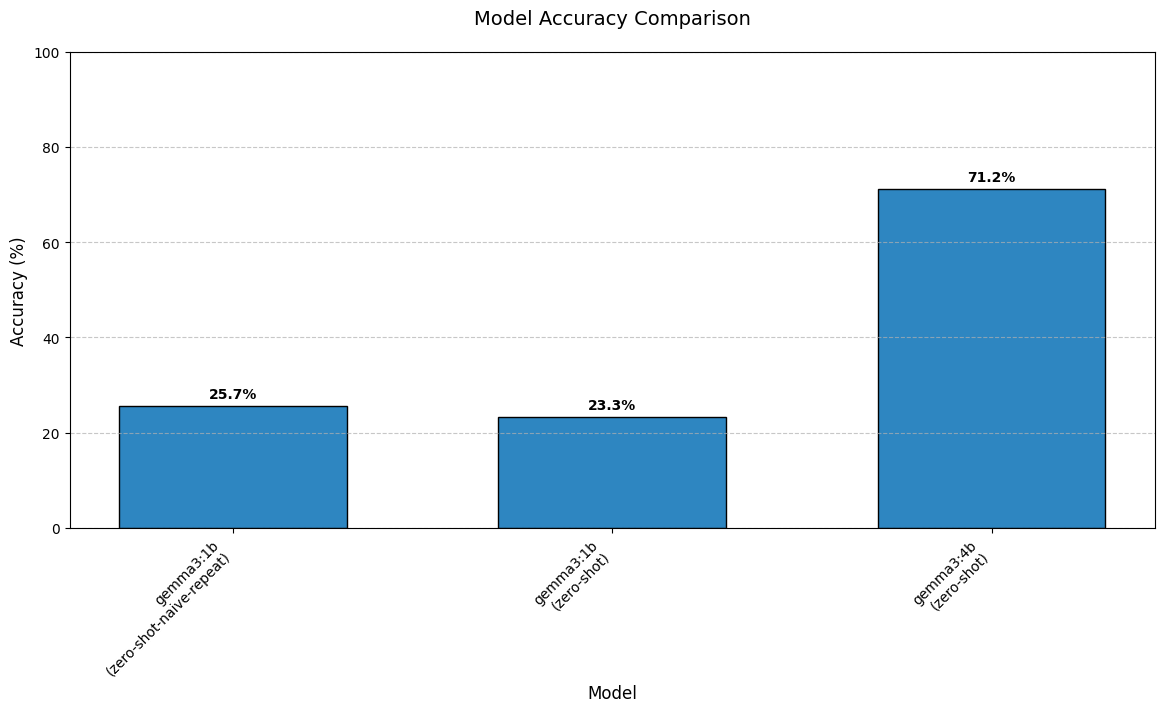
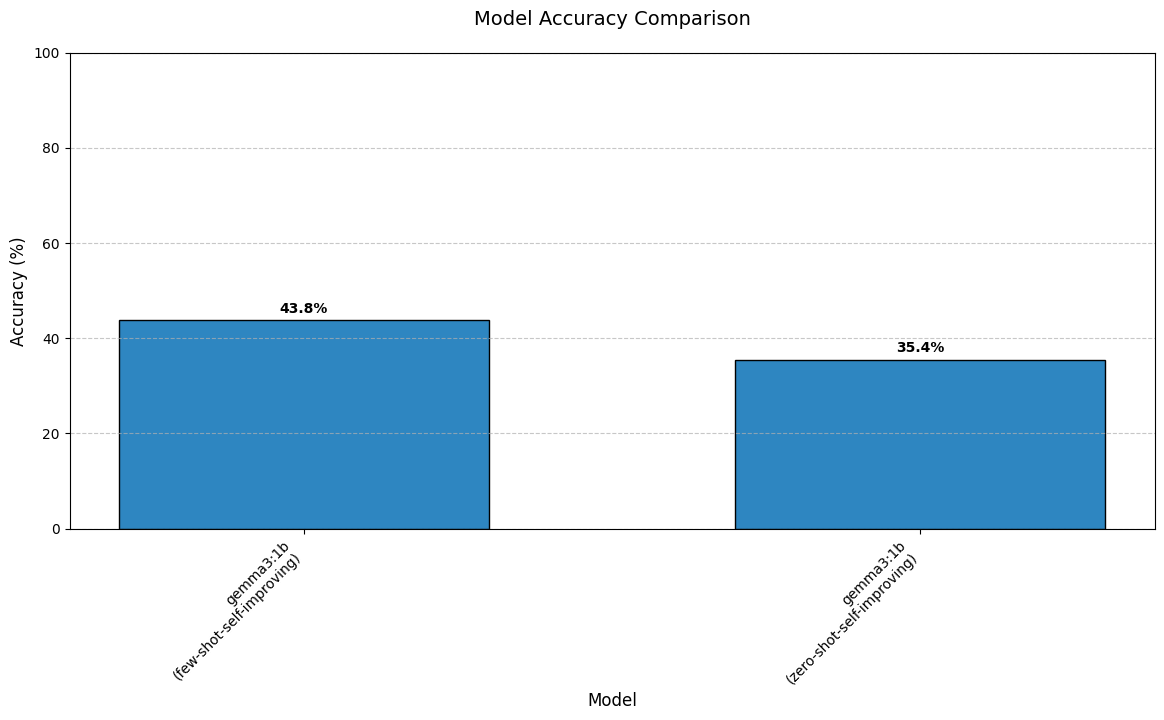
Add self-improving approach.

diff --git a/src/experiment/zero_shot/zero_shot_experiment.py b/src/experiment/zero_shot/zero_shot_experiment.py
@@ -1,30 +1,13 @@
 import datetime
-from typing import Optional, Dict, List
+from typing import Dict, List, Optional
 
-import ollama
-
-
+from src.evaluation.code_evaluator import CodeEvaluator
 from src.experiment.base_experiment import BaseExperiment
 from src.experiment.utils import extract_code
-from src.prompts import SYSTEM_PROMPT
 
 
 class ZeroShotExperiment(BaseExperiment):
     """Implements zero-shot approach for MBPP experiment."""
-
-    def generate_response(self, prompt: str) -> str:
-        """Generate code using the configured model."""
-        try:
-            response = ollama.generate(
-                model=self.config.model_name,
-                prompt=prompt,
-                system=SYSTEM_PROMPT,
-                options={"num_predict": 1000},
-            )
-            return response["response"]
-        except Exception as e:
-            self.logger.error(f"Error generating response: {e}")
-            return ""
 
     def create_task_prompt(self, example: Dict) -> str:
         """Create the prompt from the example data."""
@@ -80,6 +63,82 @@ class ZeroShotWithNaiveRepetitionExperiment(ZeroShotExperiment):
             code_action = extract_code(response)
 
             results.append({"response": response, "code_action": code_action})
+
+        return {
+            **example,
+            "results": results,
+            "model": self.config.model_name,
+            "experiment_name": self.config.experiment_name,
+            "timestamp": str(datetime.datetime.now()),
+        }
+
+
+class ZeroShotWithSelfImprovingRepetitionExperiment(ZeroShotExperiment):
+    """Implements zero-shot with self-improving repetition approach for MBPP experiment."""
+
+    def __init__(self, config):
+        super().__init__(config)
+        self.code_evaluator = CodeEvaluator()
+
+    def process_task(self, task_id: int, data: List[Dict]) -> Optional[Dict]:
+        """Process a single MBPP task using self-improving approach."""
+        example = next((ex for ex in data if ex["task_id"] == task_id), None)
+        if not example:
+            self.logger.warning(f"No example found for task_id {task_id}")
+            return None
+
+        num_iterations = self.config.experiment_additional_arguments.get(
+            "num_iterations", 3
+        )
+
+        self.logger.info(f"Processing task {task_id} with {num_iterations} iterations")
+        results = []
+        previous_attempts = []
+
+        for iteration in range(num_iterations):
+            # Create prompt with previous attempts feedback
+            prompt = self.create_task_prompt(example)
+            if previous_attempts:
+                prompt += "\nPrevious attempts and their results:\n"
+                for i, attempt in enumerate(previous_attempts):
+                    prompt += f"\nAttempt {i + 1}:\n{attempt['code']}\n"
+                    prompt += f"Execution result: {'Success' if attempt['success'] else 'Failed'}\n"
+                    if not attempt["success"]:
+                        prompt += f"Error: {attempt['error']}\n"
+                prompt += "The assertion errors show the test cases where your previous implementation didn't work."
+                prompt += "Based on the provided information, improve your thinking and solve the initally given problem."
+
+            response = self.generate_response(prompt)
+            code_action = extract_code(response)
+
+            # Execute and evaluate the code
+            success, output, logs = self.code_evaluator.evaluate_task(
+                code_action, example["test_list"]
+            )
+
+            previous_attempts.append(
+                {
+                    "code": code_action,
+                    "success": success,
+                    "error": logs if not success else "",
+                }
+            )
+
+            results.append(
+                {
+                    "response": response,
+                    "code_action": code_action,
+                    "execution_success": success,
+                    "test_success": success,
+                    "execution_output": output,
+                    "execution_logs": logs,
+                    "iteration": iteration + 1,
+                }
+            )
+
+            # If the code passes all tests, we can stop iterating
+            if success:
+                break
 
         return {
             **example,

diff --git a/src/experiment/few_shot/few_shot_experiment.py b/src/experiment/few_shot/few_shot_experiment.py
@@ -3,7 +3,9 @@ from typing import Dict
 from src.experiment.zero_shot import (
     ZeroShotExperiment,
     ZeroShotWithNaiveRepetitionExperiment,
+    ZeroShotWithSelfImprovingRepetitionExperiment,
 )
+from src.evaluation.code_evaluator import CodeEvaluator
 
 
 class FewShotExperiment(ZeroShotExperiment):
@@ -11,7 +13,10 @@ class FewShotExperiment(ZeroShotExperiment):
 
     def create_task_prompt(self, example: Dict) -> str:
         """Create the prompt from the example data."""
-        few_shot_prompt = "You are an expert Python programmer and your goal is to solve the programming tasks.\n"
+        few_shot_prompt = """
+        You are an expert Python programmer and your goal is to solve the programming tasks.
+        Examples:
+        """
 
         for task_id in range(
             self.config.FEW_SHOT_RANGE[0], self.config.FEW_SHOT_RANGE[1] + 1
@@ -27,11 +32,15 @@ class FewShotExperiment(ZeroShotExperiment):
             few_shot_prompt += ex["prompt"]
             few_shot_prompt += "\nYour code should satisfy these tests:\n"
             few_shot_prompt += "\n".join(ex["test_list"])
+            few_shot_prompt += "\n"
+            few_shot_prompt += ex["code"]
+            few_shot_prompt += "\n\n"
 
-        few_shot_prompt += "\n"
+        few_shot_prompt += "Now is your turn to solve the next task. Remember to solve only this task.\n\n"
 
         return (
-            example["prompt"]
+            few_shot_prompt
+            + example["prompt"]
             + "\nYour code should satisfy these tests:\n"
             + "\n".join(example["test_list"])
         )
@@ -45,6 +54,24 @@ class FewShotWithNaiveRepetitionExperiment(
     Inherits create_task_prompt from FewShotExperiment and other functionality
     from ZeroShotWithNaiveRepetitionExperiment.
     """
+
+    def create_task_prompt(self, example: Dict) -> str:
+        """Override to ensure FewShotExperiment's version is used."""
+        return FewShotExperiment.create_task_prompt(self, example)
+
+
+class FewShotWithSelfImprovingRepetitionExperiment(
+    FewShotExperiment, ZeroShotWithSelfImprovingRepetitionExperiment
+):
+    """Implements few-shot with self-improving repetition approach for MBPP experiment.
+
+    Inherits create_task_prompt from FewShotExperiment and other functionality
+    from ZeroShotWithSelfImprovingRepetitionExperiment.
+    """
+
+    def __init__(self, config):
+        super().__init__(config)
+        self.code_evaluator = CodeEvaluator()
 
     def create_task_prompt(self, example: Dict) -> str:
         """Override to ensure FewShotExperiment's version is used."""

diff --git a/src/evaluation/code_evaluator.py b/src/evaluation/code_evaluator.py
@@ -8,7 +8,7 @@ class CodeEvaluator:
         self.python_executor = LocalPythonExecutor(additional_authorized_imports=[])
         self.python_executor.send_tools(tools={})
 
-    def evaluate_code(self, code: str, test_list: list[str]) -> bool:
+    def evaluate_task(self, code: str, test_list: list[str]) -> tuple[bool, str, str]:
         """
         Evaluate code execution and return success status.
 
@@ -17,13 +17,16 @@ class CodeEvaluator:
             test_list (list[str]): List of asserts to evaluate the code agaist.
 
         Returns:
-            bool: True if code executes without errors, False otherwise
+            tuple[bool, str, str]: Tuple containing:
+                - bool: True if code executes without errors, False otherwise
+                - str: Output from code execution
+                - str: Execution logs
         """
         try:
             # Create a new string combining code and tests instead of modifying input
             code_with_tests = code + "\n" + "\n".join(test_list)
 
             output, execution_logs, _ = self.python_executor(code_with_tests)
-            return True
-        except Exception:
-            return False
+            return True, output, execution_logs
+        except Exception as e:
+            return False, "", str(e)

diff --git a/src/prompts.py b/src/prompts.py
@@ -28,33 +28,7 @@ You are a specialized Python code generator. Your sole purpose is to generate cl
 5. Ensure all code is syntactically valid and executable
 6. Implement appropriate error handling
 7. Include comments ONLY when necessary for complex logic
-
-## Example Input/Output Format
-
-User Input: "Create a function to check if a string is a palindrome"
-
-Your Output (exactly as shown, with no additional text):
-```python
-def is_palindrome(text: str) -> bool:
-    \"\"\"
-    Check if a string is a palindrome (reads the same forwards and backwards).
-    
-    Args:
-        text (str): The string to check
-        
-    Returns:
-        bool: True if the string is a palindrome, False otherwise
-        
-    Example:
-        >>> is_palindrome("radar")
-        True
-        >>> is_palindrome("hello")
-        False
-    \"\"\"
-    # Remove non-alphanumeric characters and convert to lowercase
-    cleaned_text = ''.join(char.lower() for char in text if char.isalnum())
-    return cleaned_text == cleaned_text[::-1]
-```
+8. Remember to use the proper name of the function based on the provided by the user test cases.
 
 ## Important Rules
 

diff --git a/src/experiment/factory.py b/src/experiment/factory.py
@@ -5,10 +5,12 @@ from src.experiment.base_experiment import BaseExperiment
 from src.experiment.zero_shot.zero_shot_experiment import (
     ZeroShotExperiment,
     ZeroShotWithNaiveRepetitionExperiment,
+    ZeroShotWithSelfImprovingRepetitionExperiment,
 )
 from src.experiment.few_shot.few_shot_experiment import (
     FewShotExperiment,
     FewShotWithNaiveRepetitionExperiment,
+    FewShotWithSelfImprovingRepetitionExperiment,
 )
 from src.experiment.knowledge_base.knowledge_base_experiment import (
     KnowledgeBaseExperiment,
@@ -22,8 +24,10 @@ class ExperimentFactory:
     EXPERIMENT_TYPES = {
         "zero-shot": ZeroShotExperiment,
         "zero-shot-naive-repeat": ZeroShotWithNaiveRepetitionExperiment,
+        "zero-shot-self-improving": ZeroShotWithSelfImprovingRepetitionExperiment,
         "few-shot": FewShotExperiment,
         "few-shot-naive-repeat": FewShotWithNaiveRepetitionExperiment,
+        "few-shot-self-improving": FewShotWithSelfImprovingRepetitionExperiment,
         "knowledge-base": KnowledgeBaseExperiment,
     }
 

diff --git a/src/experiment/base_experiment.py b/src/experiment/base_experiment.py
@@ -5,7 +5,10 @@ import pathlib
 from abc import ABC, abstractmethod
 from typing import Dict, List, Optional
 
+import ollama
+
 from src.config.experiment_config import ExperimentConfig
+from src.prompts import SYSTEM_PROMPT
 
 
 class BaseExperiment(ABC):
@@ -31,6 +34,20 @@ class BaseExperiment(ABC):
         except Exception as e:
             self.logger.error(f"Failed to load data from {filename}: {e}")
             raise
+
+    def generate_response(self, prompt: str) -> str:
+        """Generate code using the configured model."""
+        try:
+            response = ollama.generate(
+                model=self.config.model_name,
+                prompt=prompt,
+                system=SYSTEM_PROMPT,
+                options={"num_predict": 1000},
+            )
+            return response["response"]
+        except Exception as e:
+            self.logger.error(f"Error generating response: {e}")
+            return ""
 
     @abstractmethod
     def process_task(self, task_id: int, data: List[Dict]) -> Optional[Dict]:

diff --git a/run_evaluation.py b/run_evaluation.py
@@ -39,9 +39,10 @@ def process_experiment_results(results_file: pathlib.Path) -> None:
             if task["results"]:
                 for result in task["results"]:
                     if result["code_action"]:
-                        if evaluator.evaluate_code(
+                        succes, _, _ = evaluator.evaluate_task(
                             result["code_action"], task["test_list"]
-                        ):
+                        )
+                        if succes:
                             task_result["success"] = True
                             break
 

diff --git a/src/experiment/few_shot/__init__.py b/src/experiment/few_shot/__init__.py
@@ -1,3 +1,11 @@
-from .few_shot_experiment import FewShotExperiment, FewShotWithNaiveRepetitionExperiment
+from .few_shot_experiment import (
+    FewShotExperiment,
+    FewShotWithNaiveRepetitionExperiment,
+    FewShotWithSelfImprovingRepetitionExperiment,
+)
 
-__all__ = ["FewShotExperiment", "FewShotWithNaiveRepetitionExperiment"]
+__all__ = [
+    "FewShotExperiment",
+    "FewShotWithNaiveRepetitionExperiment",
+    "FewShotWithSelfImprovingRepetitionExperiment",
+]

diff --git a/src/experiment/zero_shot/__init__.py b/src/experiment/zero_shot/__init__.py
@@ -1,6 +1,11 @@
 from .zero_shot_experiment import (
     ZeroShotExperiment,
     ZeroShotWithNaiveRepetitionExperiment,
+    ZeroShotWithSelfImprovingRepetitionExperiment,
 )
 
-__all__ = ["ZeroShotExperiment", "ZeroShotWithNaiveRepetitionExperiment"]
+__all__ = [
+    "ZeroShotExperiment",
+    "ZeroShotWithNaiveRepetitionExperiment",
+    "ZeroShotWithSelfImprovingRepetitionExperiment",
+]

diff --git a/src/cli/experiment_arguments.py b/src/cli/experiment_arguments.py
@@ -23,8 +23,10 @@ def parse_experiment_arguments() -> argparse.Namespace:
         choices=[
             "zero-shot",
             "zero-shot-naive-repeat",
+            "zero-shot-self-improving",
             "few-shot",
             "few-shot-naive-repeat",
+            "few-shot-self-improving",
         ],
         help="Experiment type to run (default: zero-shot)",
     )

diff --git a/run_summary.py b/run_summary.py
@@ -27,6 +27,9 @@ for file in csv_files:
     # Store results
     model_accuracies[plot_key] = accuracy * 100  # Convert to percentage
 
+# Sort the model_accuracies dictionary by keys (model names)
+model_accuracies = dict(sorted(model_accuracies.items()))
+
 # Create bar plot
 plt.figure(figsize=(14, 7))  # Increased width for longer labels
 plt.bar(

diff --git a/src/config/experiment_config.py b/src/config/experiment_config.py
@@ -9,7 +9,7 @@ class ExperimentConfig:
     """Configuration for MBPP experiments."""
 
     FEW_SHOT_RANGE: Tuple[int, int] = (1, 10)
-    TEST_RANGE: Tuple[int, int] = (11, 510)
+    TEST_RANGE: Tuple[int, int] = (11, 100)  # (11, 510)
     VALIDATION_RANGE: Tuple[int, int] = (511, 600)
     TRAINING_RANGE: Tuple[int, int] = (601, 974)
 
